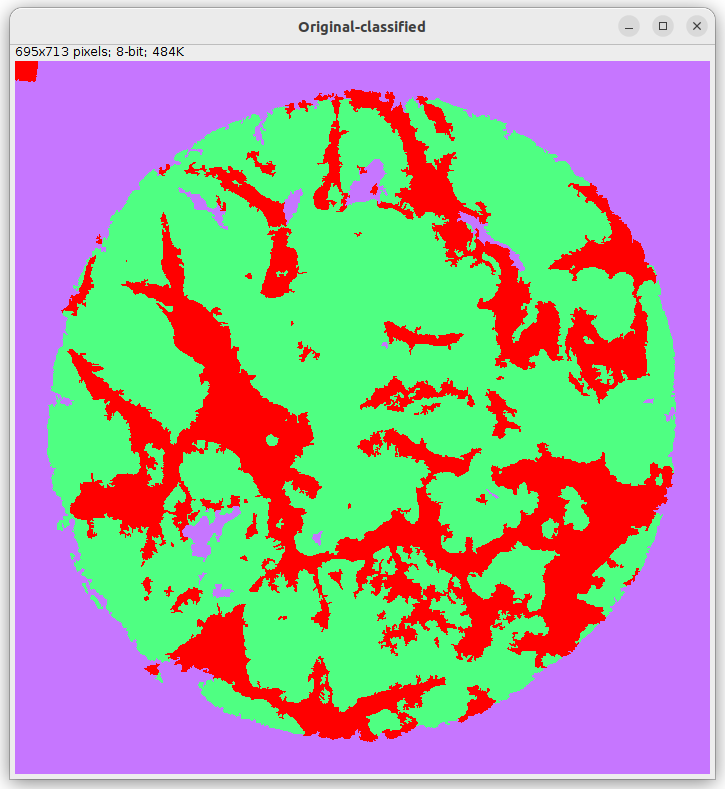
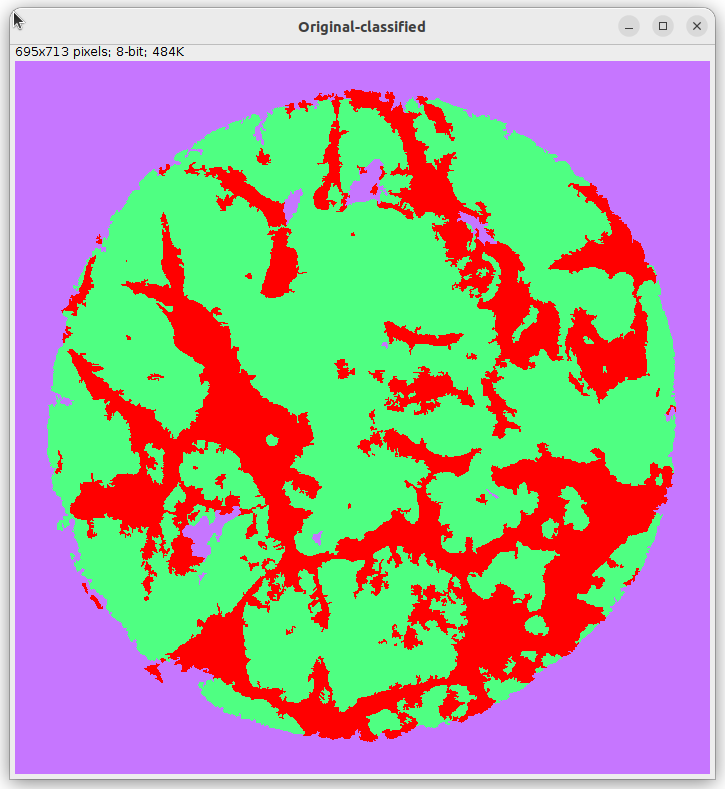
Update example images to plugin version 1.0.0.
Also, replace the probability single-slice image by an animated GIF
showing the probability maps of the three classes.

diff --git a/README.md b/README.md
@@ -174,7 +174,7 @@ The controls panel provides the main operations:
   <table>
   <tr>
     <td align="center" width="400">
-      <img src="docs/images/TSS-probabilities.png" alt="Trainable Superpixel Segmentation probability map example" width="400">
+      <img src="docs/images/TSS-probabilities.gif" alt="Trainable Superpixel Segmentation probability map example" width="400">
     </td>
   </tr>
   <tr>
